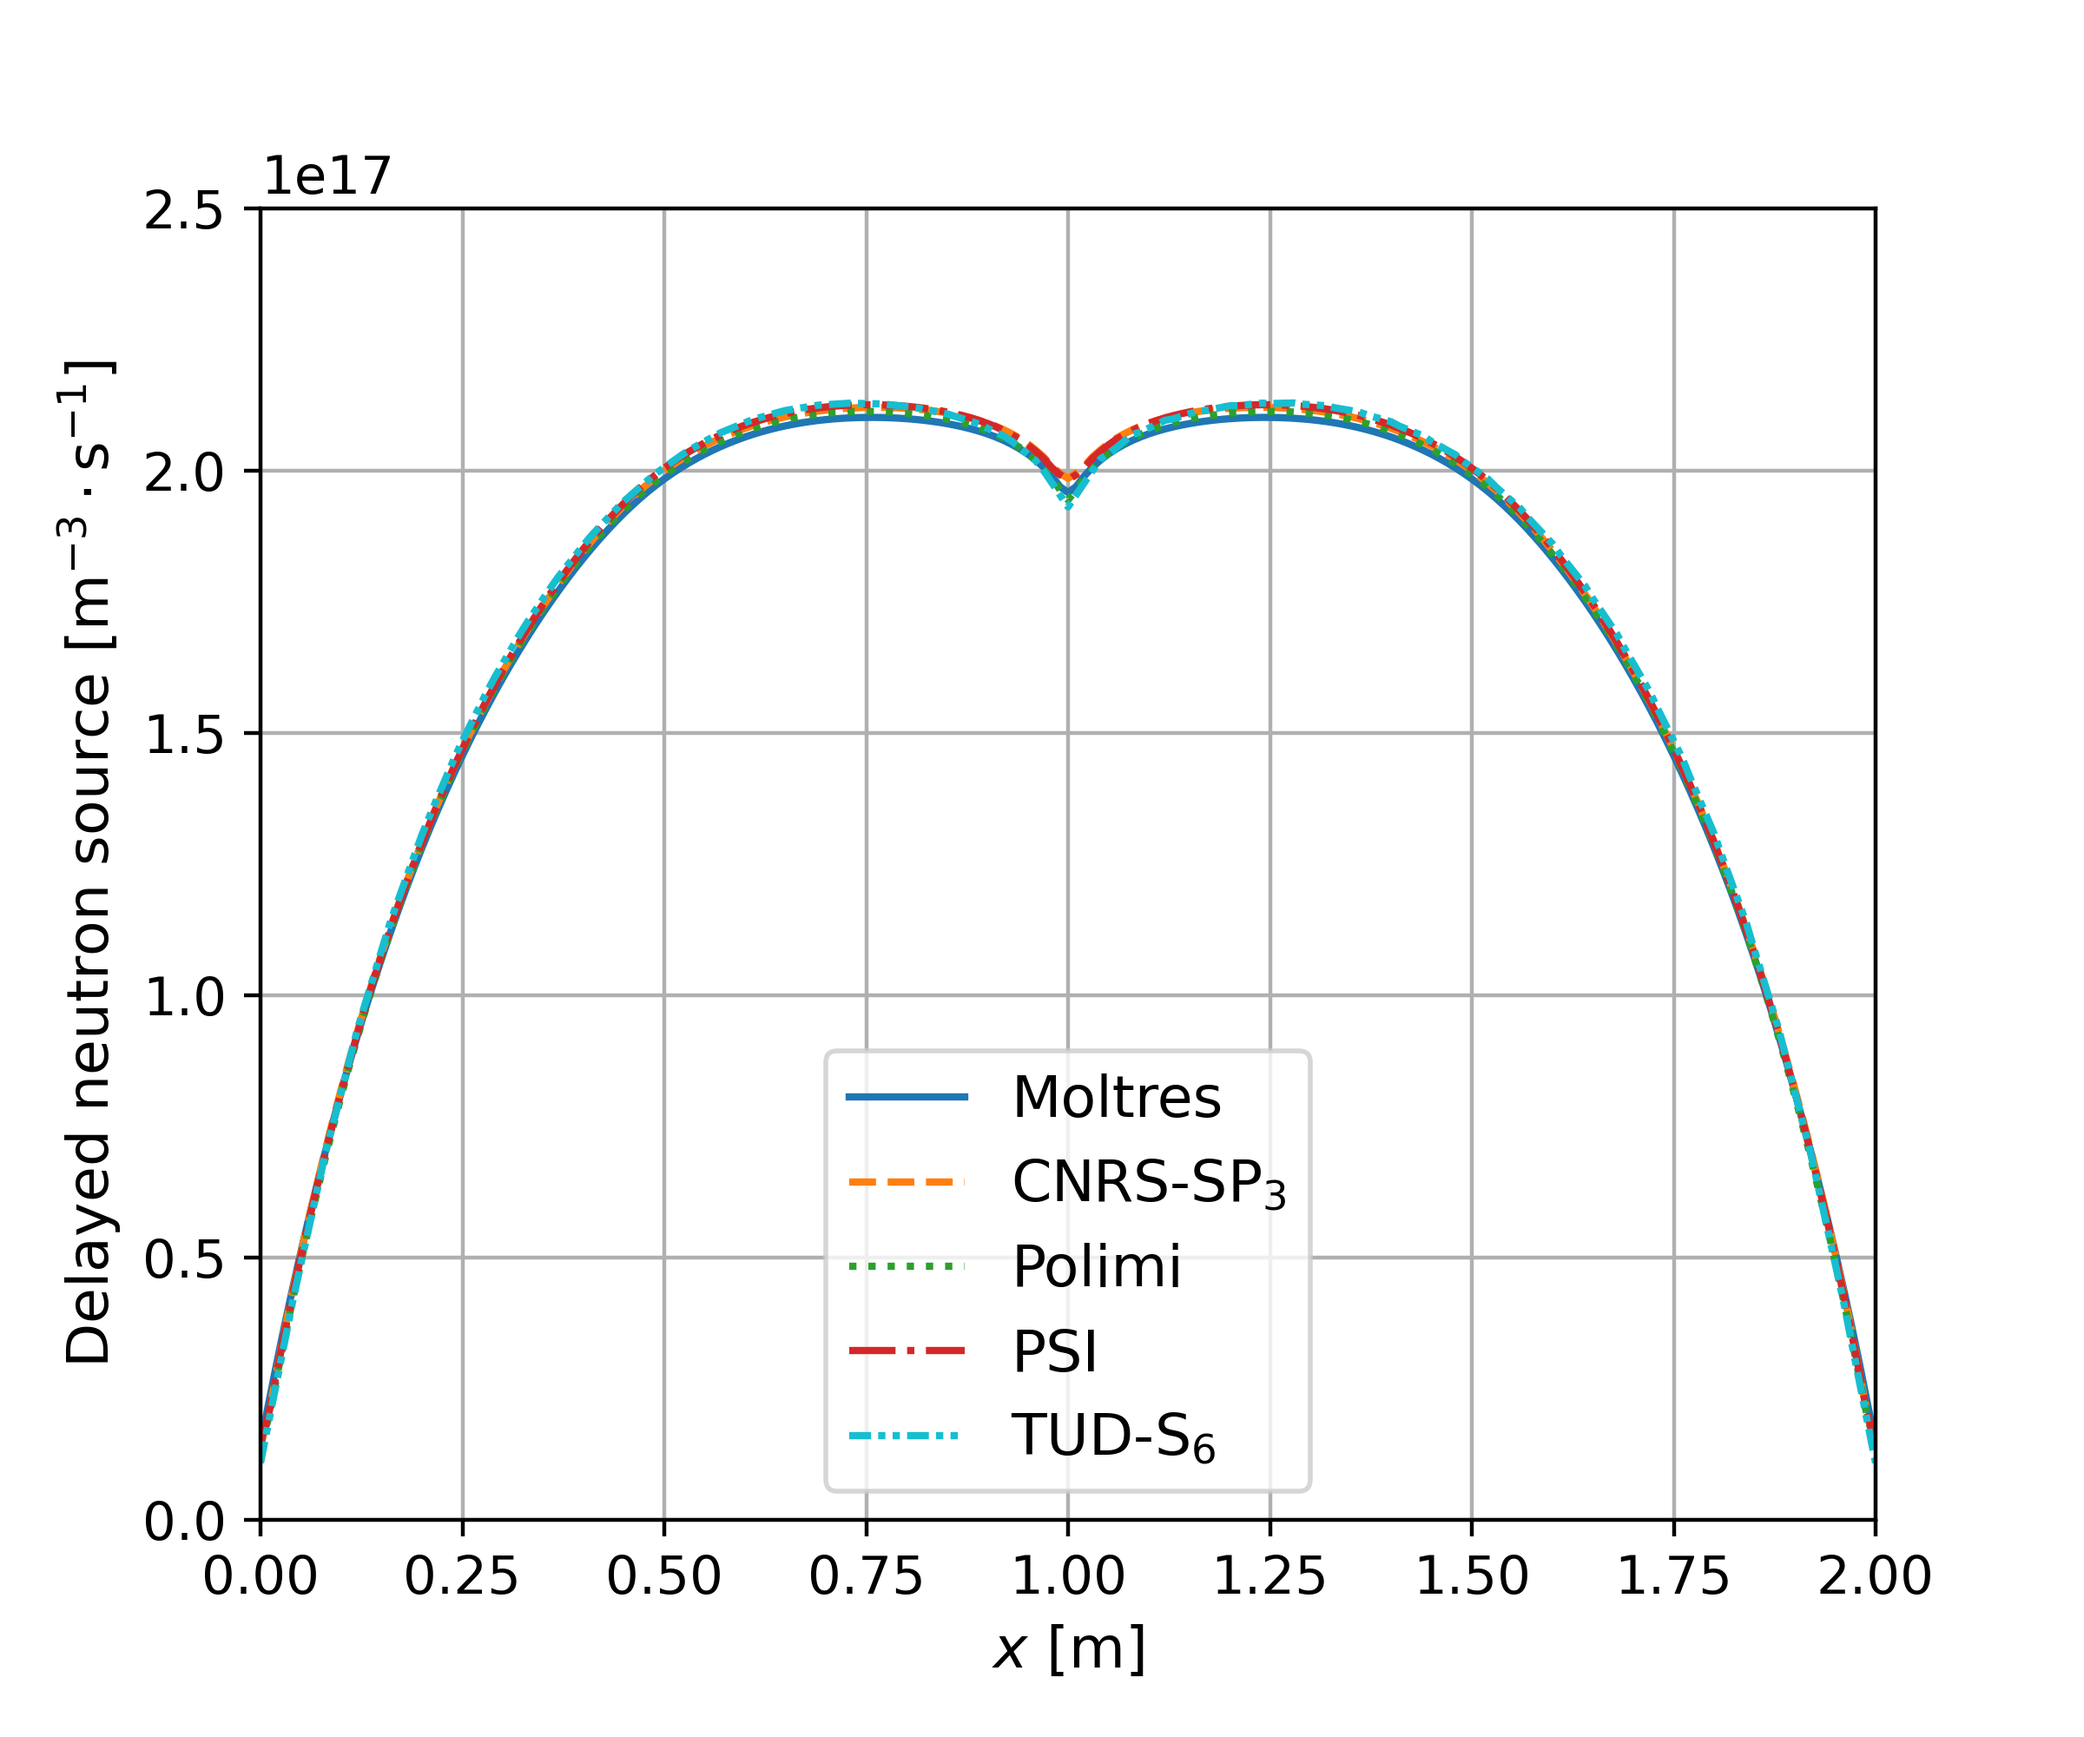
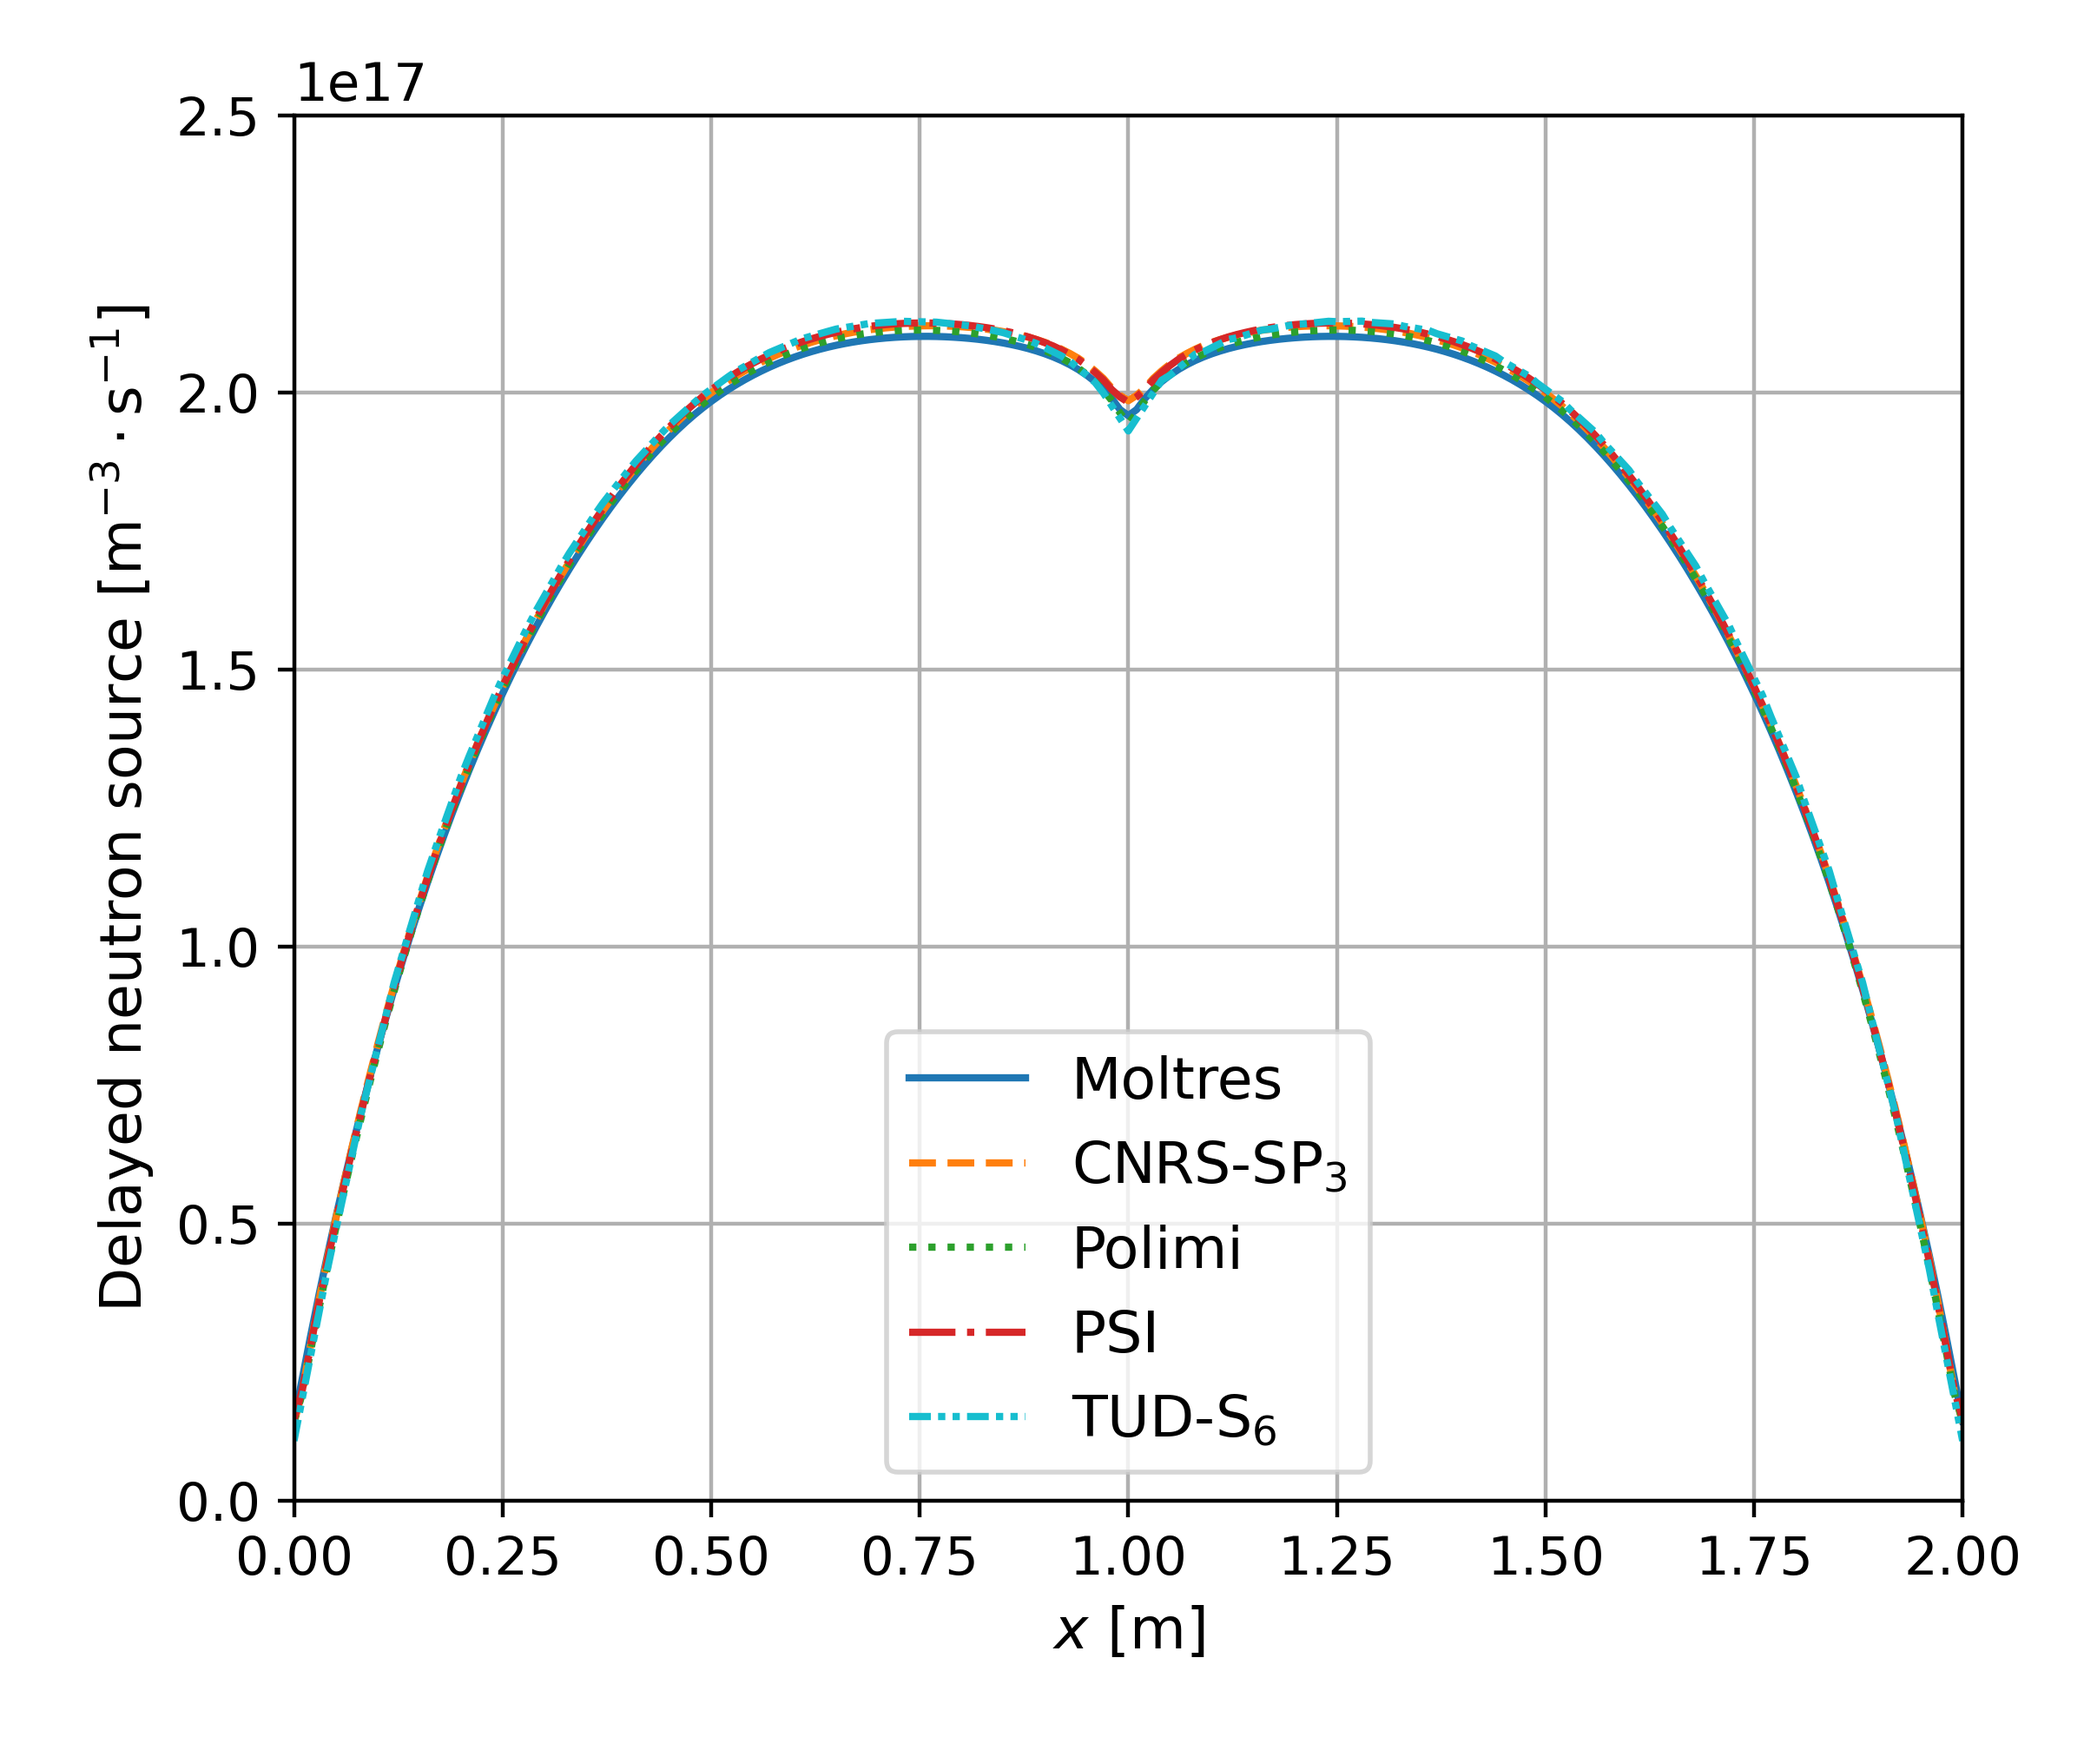
Regenerate Step 1.3 plots with plt.tightlayout for consistency

diff --git a/python/step-13-buoyancy/buoyancy.py b/python/step-13-buoyancy/buoyancy.py
@@ -165,6 +165,7 @@ ax.set_xlim(0, 2)
 ax.set_ylim(0, 2.5e17)
 ax.set_xlabel(r'$x$ [m]')
 ax.set_ylabel(r'Delayed neutron source [m$^{-3}\cdot$s$^{-1}$]')
+plt.tight_layout()
 plt.savefig('1-3-dnp-plot.png', dpi=400)
 
 fig, ax = plt.subplots(figsize=[6, 5])
@@ -183,6 +184,7 @@ ax.set_xlim(0, 2)
 ax.set_ylim(900, 1300)
 ax.set_xlabel(r'$x$ [m]')
 ax.set_ylabel(r'$T$ [K]')
+plt.tight_layout()
 plt.savefig('1-3-temp-plot.png', dpi=400)
 
 fig, ax = plt.subplots(figsize=[6, 5])
